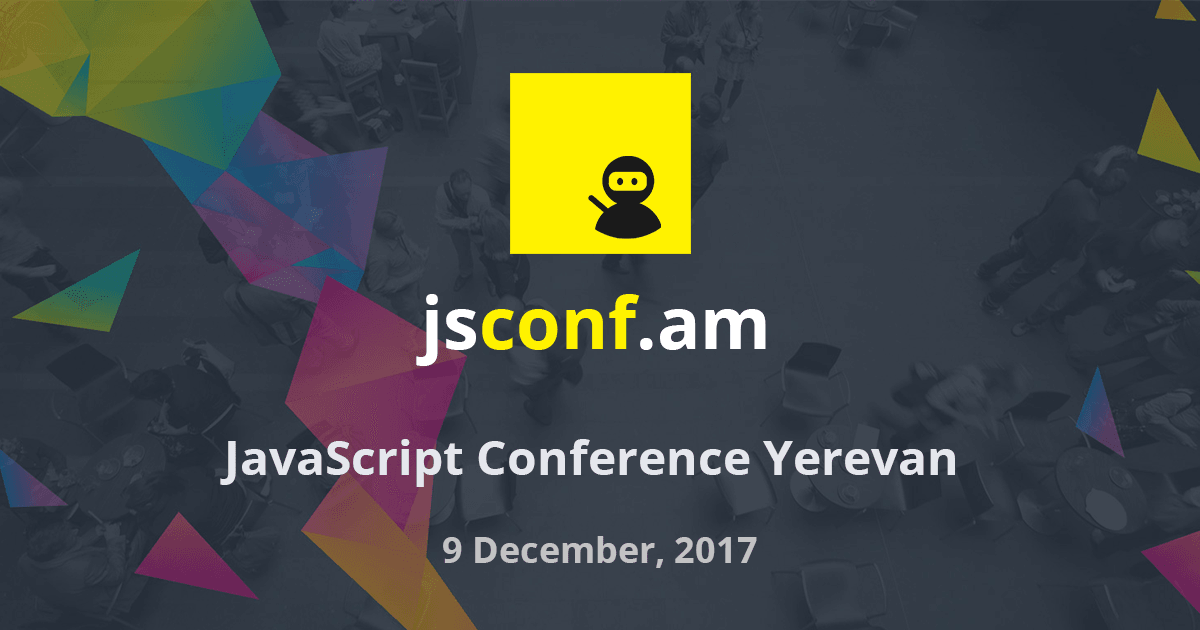
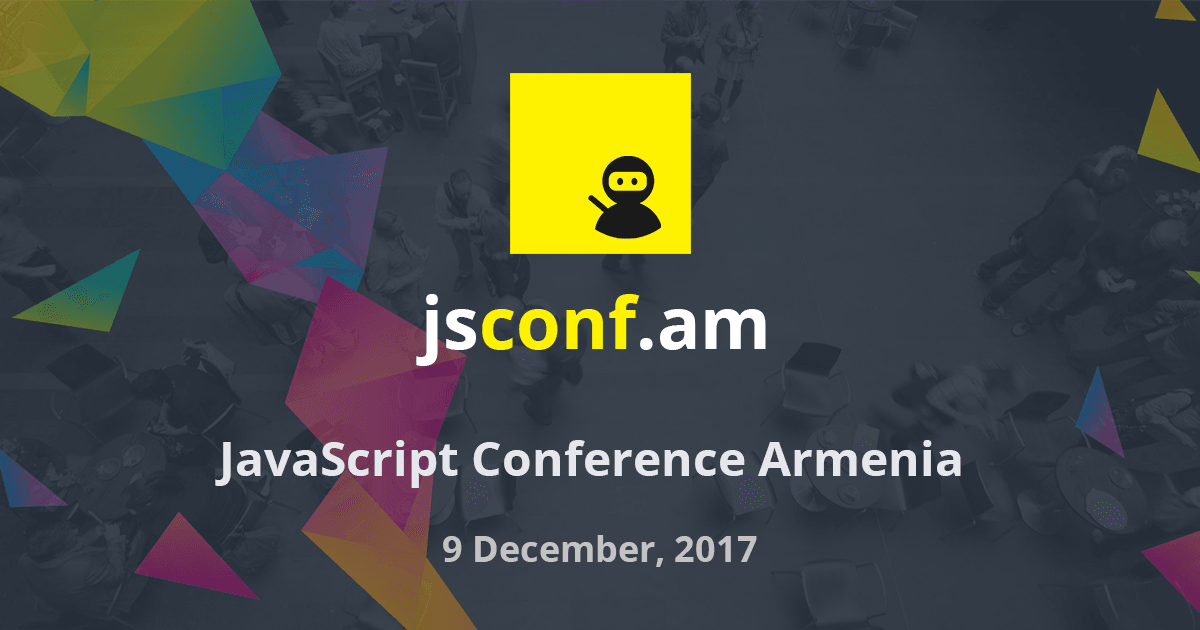
Updates

diff --git a/index.html b/index.html
@@ -2,4 +2,4 @@
       function gtag(){dataLayer.push(arguments);}
       gtag('js', new Date());
 
-      gtag('config', 'UA-107858777-1');</script><meta charset=utf-8><meta name=viewport content="width=device-width,initial-scale=1,maximum-scale=1,user-scalable=no"><title>JavaScript Conference Armenia | jsconf.am</title><meta property=og:image content=https://jsconf.am/static/og_conf17.png?v2><meta property=og:description content="Learn about the modern development ecosystem by attending talks and workshops."><meta property=og:title content="JavaScript Conference Armenia | jsconf.am"><link rel=apple-touch-icon sizes=180x180 href="/static/apple-touch-icon.png?v=xQzB66mQ5w"><link rel=icon type=image/png sizes=32x32 href="/static/favicon-32x32.png?v=xQzB66mQ5w"><link rel=icon type=image/png sizes=16x16 href="/static/favicon-16x16.png?v=xQzB66mQ5w"><link rel=manifest href="/static/manifest.json?v=xQzB66mQ5w"><link rel=mask-icon href="/static/safari-pinned-tab.svg?v=xQzB66mQ5w" color=#fff200><link rel="shortcut icon" href="/static/favicon.ico?v=xQzB66mQ5w"><meta name=msapplication-config content="/static/browserconfig.xml?v=xQzB66mQ5w"><meta name=theme-color content=#ffffff><link href=/static/css/app.98d38cca4189886c7dc20702df8a58bb.css rel=stylesheet></head><body><div id=app></div><script type=text/javascript src=/static/js/manifest.040d8caf25fa123bb193.js></script><script type=text/javascript src=/static/js/vendor.bb6bfbb6b0edfffe034e.js></script><script type=text/javascript src=/static/js/app.e364756b7223fca4df02.js></script></body></html>
+      gtag('config', 'UA-107858777-1');</script><meta charset=utf-8><meta name=viewport content="width=device-width,initial-scale=1,maximum-scale=1,user-scalable=no"><title>JavaScript Conference Armenia | jsconf.am</title><meta property=og:image content=https://jsconf.am/static/og_conf17.png?v3><meta property=og:description content="Learn about the modern development ecosystem by attending talks and workshops."><meta property=og:title content="JavaScript Conference Armenia | jsconf.am"><link rel=apple-touch-icon sizes=180x180 href="/static/apple-touch-icon.png?v=xQzB66mQ5w"><link rel=icon type=image/png sizes=32x32 href="/static/favicon-32x32.png?v=xQzB66mQ5w"><link rel=icon type=image/png sizes=16x16 href="/static/favicon-16x16.png?v=xQzB66mQ5w"><link rel=manifest href="/static/manifest.json?v=xQzB66mQ5w"><link rel=mask-icon href="/static/safari-pinned-tab.svg?v=xQzB66mQ5w" color=#fff200><link rel="shortcut icon" href="/static/favicon.ico?v=xQzB66mQ5w"><meta name=msapplication-config content="/static/browserconfig.xml?v=xQzB66mQ5w"><meta name=theme-color content=#ffffff><link href=/static/css/app.98d38cca4189886c7dc20702df8a58bb.css rel=stylesheet></head><body><div id=app></div><script type=text/javascript src=/static/js/manifest.040d8caf25fa123bb193.js></script><script type=text/javascript src=/static/js/vendor.bb6bfbb6b0edfffe034e.js></script><script type=text/javascript src=/static/js/app.e364756b7223fca4df02.js></script></body></html>
